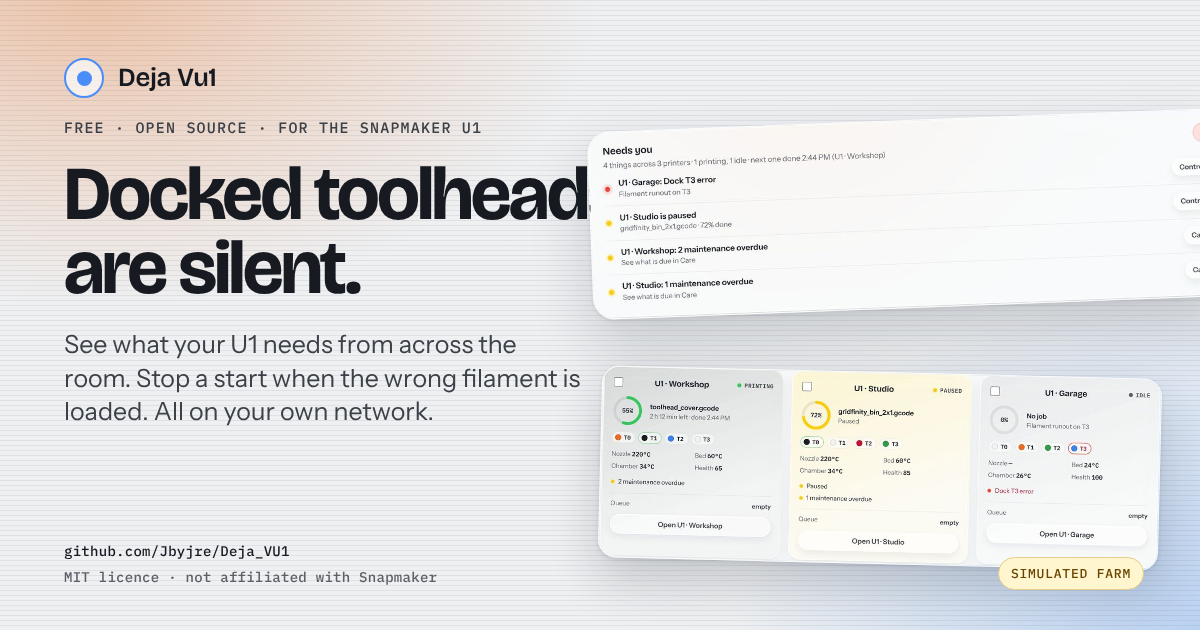
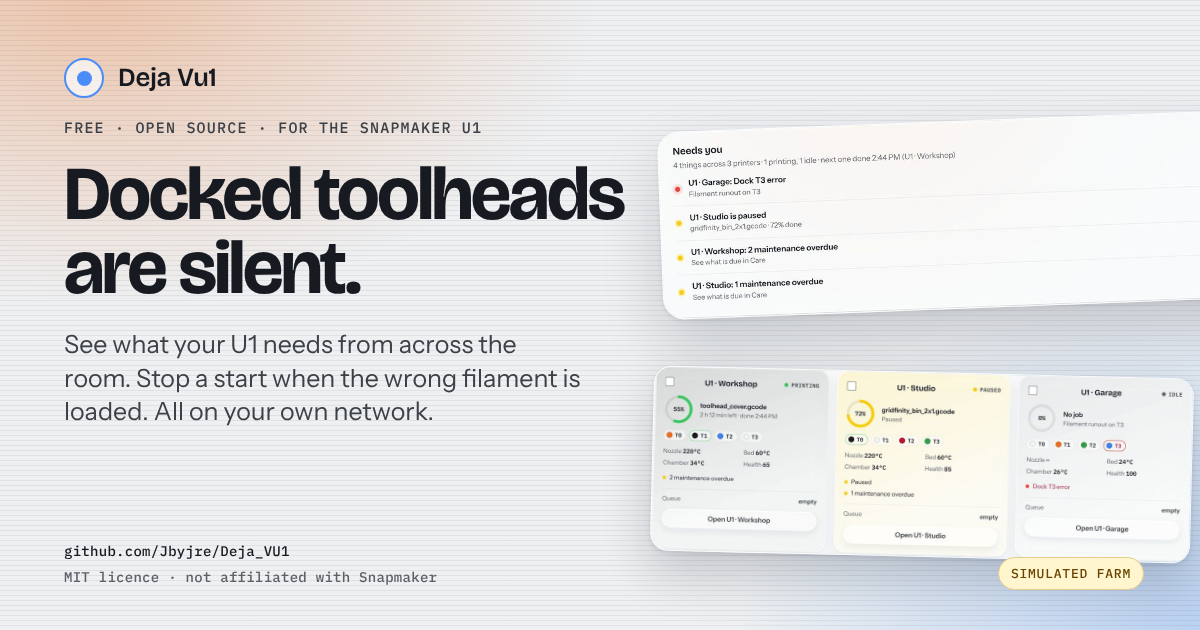
Fix what an independent check found in the launch changes
- The 1200 x 630 card clipped its own headline ("Docked toolhead are
  silent."): the screenshots now start right of the headline column.
- Details shows the newest 14 exchanges, not "the last few hundred" (here and
  in real-printer.md). The first-connection page now has a step for saving
  the full 300-entry record from /api/printers/diagnostics, with the id from
  /api/fleet/registry, checked live against the stand-in Moonraker.
- The detailed log goes to dejavu-log.txt (2> redirect) so a 30-45 minute
  session doesn't scroll the handshake away; the address banner stays on
  screen. The page now says the shared files never contain the API key.
- The ZIP route names the folder to run from (Deja_VU1-main); "three lines"
  now says the first one needs git, with Download ZIP as the alternative;
  "would each have broken" now matches real-printer.md ("been a bug").

Claude-Session: https://claude.ai/code/session_01WFg2c8d9s5j1DeYKnV1Z5S

diff --git a/docs/first-connection.md b/docs/first-connection.md
@@ -4,8 +4,8 @@ Deja Vu1 has never talked to a physical Snapmaker U1. Its printer connection
 was written against Snapmaker's published `u1-klipper` and `u1-moonraker`
 source and tested against a stand-in built from that source, over real network
 connections ([real-printer.md](real-printer.md) has the details). Reading the
-source already turned up about a dozen things that would each have broken a
-first connection. The first real connection is where anything the source
+source already turned up about a dozen things that would each have been a bug
+on a first real connection. The first real connection is where anything the source
 doesn't show will turn up, and this page is how to help find it.
 
 ## What it involves
@@ -39,10 +39,16 @@ its controls. Keep it on your home network for the session (see
 ## Steps
 
 1. Get the code: `git clone https://github.com/Jbyjre/Deja_VU1.git`, then
-   `cd Deja_VU1`. Or use GitHub's **Code → Download ZIP** and unzip it.
-2. Start it with every exchange printed to the terminal:
-   - macOS or Linux: `DEJAVU_MOONRAKER_LOG=1 python3 backend/app.py`
-   - Windows PowerShell: `$env:DEJAVU_MOONRAKER_LOG = "1"; python backend\app.py`
+   `cd Deja_VU1`. Or use GitHub's **Code → Download ZIP**, unzip it, and open a
+   terminal in the unzipped folder (GitHub names it `Deja_VU1-main`).
+2. Start it with every exchange recorded, saved to a file:
+   - macOS or Linux: `DEJAVU_MOONRAKER_LOG=1 python3 backend/app.py 2> dejavu-log.txt`
+   - Windows PowerShell: `$env:DEJAVU_MOONRAKER_LOG = "1"; python backend\app.py 2> dejavu-log.txt`
+
+   While a print runs, Klipper reports several times a second, so the detailed
+   log is long. The `2> dejavu-log.txt` part puts it in a file in that folder
+   instead of the terminal; the terminal still shows the address to open. If
+   the dashboard doesn't start, the reason is in that file.
 3. Open **http://localhost:8000** in a browser on that computer. It will say
    no printer is connected.
 4. **Fleet → Add a printer.** Give it a name, paste the address, and add an API
@@ -54,15 +60,23 @@ its controls. Keep it on your home network for the session (see
    progress and finish time with the printer's own screen.
 7. Open **Details** on the printer's row. It shows whether the link is open,
    Klipper's state, which toolheads and chamber sensor were found, how much
-   print history was read, and the last few hundred exchanges with Moonraker.
+   print history was read, and the newest 14 exchanges with Moonraker.
+8. Save the full record, once right after connecting and again at the end:
+   open **http://localhost:8000/api/fleet/registry**, find your printer's `id`
+   (it looks like `printer-1a2b3c`), then open
+   `http://localhost:8000/api/printers/diagnostics?printer=` followed by that
+   id, and save the page (File → Save Page As). It holds the last 300
+   exchanges; with detailed logging on, live updates fill those quickly, which
+   is why the first save matters.
 
 ## What to send back
 
 - What looked right and what looked wrong, compared with the printer's screen.
-- The **Details** output and the terminal log.
-- **Read both before you share them.** They can include addresses on your
-  network and the names of your print files. Remove anything you'd rather keep
-  private.
+- The saved diagnostics pages from step 8 and `dejavu-log.txt` from step 2.
+- **Read them before you share them.** They include the printer's address on
+  your network and can include the names of your print files. They never
+  contain your API key (only whether one is set). Remove anything you'd rather
+  keep private.
 
 ## Sign up
 

diff --git a/docs/real-printer.md b/docs/real-printer.md
@@ -17,8 +17,10 @@ install on the printer.
 `Details` on the printer's row shows everything a first connection needs
 someone to see: whether the link is open, Klipper's state, which toolheads
 and chamber sensor were found, how much print history was read, and the
-last few hundred exchanges with Moonraker — what was sent and what came
-back. The same is at `GET /api/printers/diagnostics?printer=<id>`. The
+newest 14 exchanges with Moonraker — what was sent and what came back. The
+full record, with the last 300 exchanges, is at
+`GET /api/printers/diagnostics?printer=<id>` (the id is listed at
+`GET /api/fleet/registry`). The
 server's terminal prints every command sent and every failure; start it
 with `DEJAVU_MOONRAKER_LOG=1` to print every exchange, WebSocket messages
 included.

diff --git a/README.md b/README.md
@@ -17,7 +17,8 @@ Vu1 is an independent open-source project, not affiliated with Snapmaker.</sub>
 > watch-only: you watch a print you're already running, and nothing is started
 > or paused from Deja Vu1. **[How it works, and how to sign up](docs/first-connection.md)**
 
-**Try it in three lines** (Python 3.8 or newer, nothing else):
+**Try it in three lines** (Python 3.8 or newer; the first line needs git, or
+use GitHub's **Code → Download ZIP** instead):
 
 ```bash
 git clone https://github.com/Jbyjre/Deja_VU1.git
